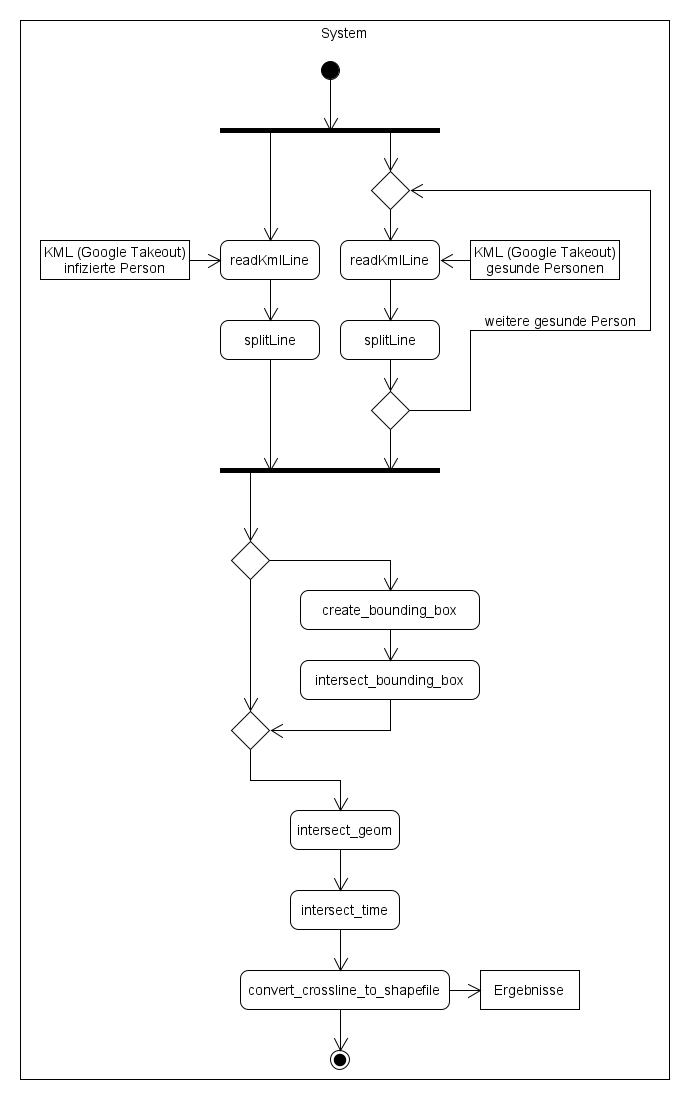
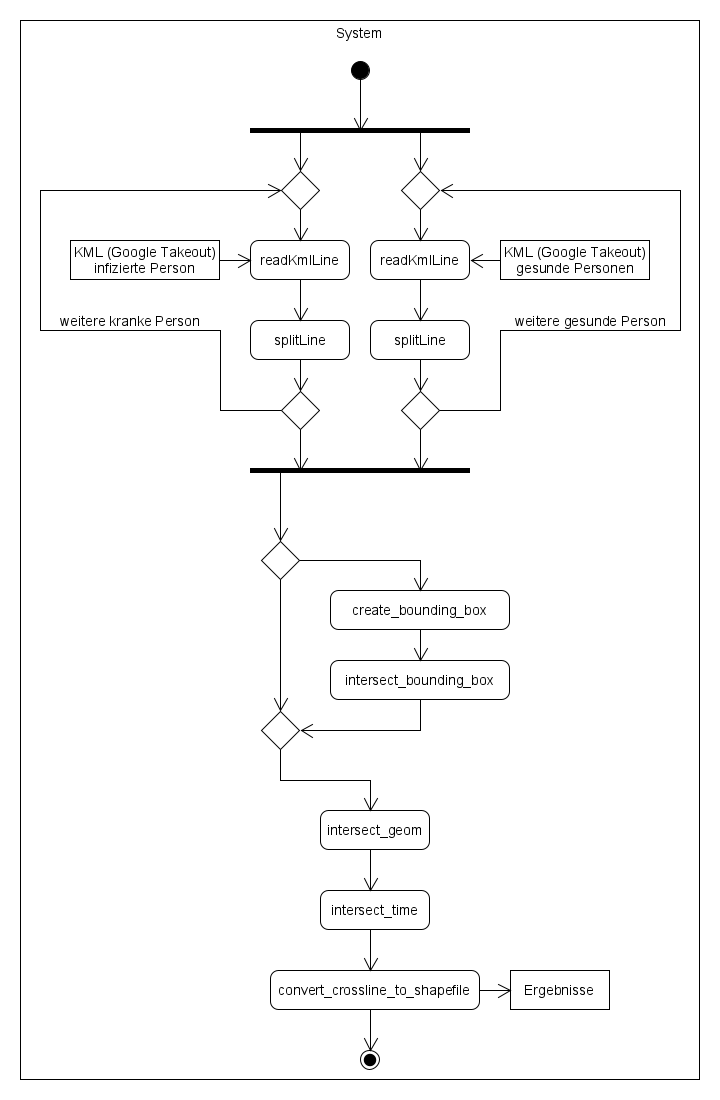
Edit Code and implement Multi User Check, Update Activity Diagramm

diff --git a/Python/Application.py b/Python/Application.py
@@ -19,14 +19,14 @@ if __name__ == "__main__":
 
     export_path = path.split("\\")
 
-    print(datetime.datetime.now().strftime('%Y-%m-%dT%H:%M:%SZ') + "  Lese erste Datei")
+    print(datetime.datetime.now().strftime('%Y-%m-%dT%H:%M:%SZ') + "  Lese erste Datei als kranke Person")
 
     datei1 = read_kml_line(path[:-len(export_path[-1])] + "Standortverlauf_Juli_2019\Standortverlauf_Christian_Juli2019.kml")
 
     print(datetime.datetime.now().strftime('%Y-%m-%dT%H:%M:%SZ') + "  Anzahl Punkte: " + str(len(datei1) / 2 - 1) + " Punkte")
     print(datetime.datetime.now().strftime('%Y-%m-%dT%H:%M:%SZ') + "  Splitte erste Datei")
 
-    lines1 = split_line(datei1, '2019-07-01T00:00:00Z', '2019-08-01T00:00:00Z')
+    lines1 = split_line(datei1, '2019-07-01T00:00:00Z', '2019-08-01T00:00:00Z', "krank_Christian")
 
     print(datetime.datetime.now().strftime('%Y-%m-%dT%H:%M:%SZ') + "  Anzahl Linien: " + str(len(lines1)) + " Linien")
     print(datetime.datetime.now().strftime('%Y-%m-%dT%H:%M:%SZ') + "  Exportiere erste gesplittete Datei")
@@ -36,14 +36,14 @@ if __name__ == "__main__":
     print(datetime.datetime.now().strftime('%Y-%m-%dT%H:%M:%SZ') + "  Erste Linie gesplittet")
 
 
-    print(datetime.datetime.now().strftime('%Y-%m-%dT%H:%M:%SZ') + "  Lese zweite Datei")
+    print(datetime.datetime.now().strftime('%Y-%m-%dT%H:%M:%SZ') + "  Lese zweite Datei als gesunde Person")
 
     datei2 = read_kml_line(path[:-len(export_path[-1])] + "Standortverlauf_Juli_2019\Standortverlauf_Tim_Juli2019.kml")
 
     print(datetime.datetime.now().strftime('%Y-%m-%dT%H:%M:%SZ') + "  Anzahl Punkte: " + str(len(datei2)/2 - 1) + " Punkte")
     print(datetime.datetime.now().strftime('%Y-%m-%dT%H:%M:%SZ') + "  Splitte zweite Datei")
 
-    lines2 = split_line(datei2, '2019-07-01T00:00:00Z', '2019-08-01T00:00:00Z')
+    lines2 = split_line(datei2, '2019-07-01T00:00:00Z', '2019-08-01T00:00:00Z', "gesund_Tim")
 
     print(datetime.datetime.now().strftime('%Y-%m-%dT%H:%M:%SZ') + "  Anzahl Linien: " + str(len(lines2)) + " Linien")
     print(datetime.datetime.now().strftime('%Y-%m-%dT%H:%M:%SZ') + "  Exportiere zweite gesplittete Datei")
@@ -53,19 +53,41 @@ if __name__ == "__main__":
     print(datetime.datetime.now().strftime('%Y-%m-%dT%H:%M:%SZ') + "  Zweite Linie gesplittet")
 
 
-    bbox1 = create_bounding_box(lines1)
-    bbox2 = create_bounding_box(lines2)
+    print(datetime.datetime.now().strftime('%Y-%m-%dT%H:%M:%SZ') + "  Lese dritte Datei als gesunde Person")
 
-    lines1 = intersect_bounding_box(lines1, bbox2)
-    lines2 = intersect_bounding_box(lines2, bbox1)
+    datei3 = read_kml_line(path[:-len(export_path[-1])] + "Standortverlauf_Juli_2019\Standortverlauf_Thomas_Juli2019.kml")
 
-    convert_linestring_to_shapefile(lines1, path[:-len(export_path[-1])] + r"Ergebnisse\Splitted_Lines",
+    print(datetime.datetime.now().strftime('%Y-%m-%dT%H:%M:%SZ') + "  Anzahl Punkte: " + str(
+        len(datei2) / 2 - 1) + " Punkte")
+    print(datetime.datetime.now().strftime('%Y-%m-%dT%H:%M:%SZ') + "  Splitte dritte Datei")
+
+    lines3 = split_line(datei2, '2019-07-01T00:00:00Z', '2019-08-01T00:00:00Z', "gesund_Thomas")
+
+    print(datetime.datetime.now().strftime('%Y-%m-%dT%H:%M:%SZ') + "  Anzahl Linien: " + str(len(lines2)) + " Linien")
+    print(datetime.datetime.now().strftime('%Y-%m-%dT%H:%M:%SZ') + "  Exportiere dritte gesplittete Datei")
+
+    # convert_linestring_to_shapefile(lines2, path[:-len(export_path[-1])] + r"Ergebnisse\Splitted_Lines", "Splitted_Lines_Christian_Juli2019_ogr")
+
+    print(datetime.datetime.now().strftime('%Y-%m-%dT%H:%M:%SZ') + "  Dritte Linie gesplittet")
+
+    infectedLines = lines1
+    healthyLines = lines2 + lines3
+
+
+    bboxInfected = create_bounding_box(infectedLines)
+    bboxHealthy = create_bounding_box(healthyLines)
+
+    infectedLines = intersect_bounding_box(infectedLines, bboxHealthy)
+    healthyLines = intersect_bounding_box(healthyLines, bboxInfected)
+
+
+    convert_linestring_to_shapefile(infectedLines, path[:-len(export_path[-1])] + r"Ergebnisse\Splitted_Lines",
                                     "Splitted_Lines_Christian_Juli2019_ogr")
-    convert_linestring_to_shapefile(lines2, path[:-len(export_path[-1])] + r"Ergebnisse\Splitted_Lines",
+    convert_linestring_to_shapefile(healthyLines, path[:-len(export_path[-1])] + r"Ergebnisse\Splitted_Lines",
                                     "Splitted_Lines_Tim_Juli2019_ogr")
 
 
-    result_geom = intersect_geom(lines1, lines2, distance=10)
+    result_geom = intersect_geom(infectedLines, healthyLines, distance=10)
     print(datetime.datetime.now().strftime('%Y-%m-%dT%H:%M:%SZ') + "  Geometrische Intersection")
     result_time = intersect_time(result_geom, delta=datetime.timedelta(minutes=15))
     print(datetime.datetime.now().strftime('%Y-%m-%dT%H:%M:%SZ') + "  Zeitliche Intersection")

diff --git a/Python/Utilities.py b/Python/Utilities.py
@@ -24,7 +24,7 @@ def read_kml_line(path):
     else:
         raise Exception('no track-tag found in KML')
 
-def split_line(input_line, startdate_iso, enddate_iso):
+def split_line(input_line, startdate_iso, enddate_iso, personal_id):
     '''
     Splits the long line into line sections in a defined timeframe adding the time as attribute
 
@@ -62,7 +62,7 @@ def split_line(input_line, startdate_iso, enddate_iso):
                 velocity = distance/time_delta
                 if velocity < 50: # [m/s]
                     # fill output list
-                    list_Linestrings.append(Linestring(old_point, point))
+                    list_Linestrings.append(Linestring(old_point, point, personal_id))
                 #else:
                     # k = k+1
                     #print(f"{k}. Ausreißer")
@@ -232,13 +232,17 @@ def convert_linestring_to_shapefile(list_linestring, path, filename):
     endtime = ogr.FieldDefn("endtime", ogr.OFTString)
     endtime.SetWidth(32)
     layer.CreateField(endtime)
+    pers_id = ogr.FieldDefn("pers_id", ogr.OFTString)
+    pers_id.SetWidth(32)
+    layer.CreateField(pers_id)
 
     for linestring in list_linestring:
         feature = ogr.Feature(layer.GetLayerDefn())
 
-        # set the attributes using the values from the delimited text file
+        # set the attributes
         feature.SetField("starttime", linestring.startpoint.timestamp.strftime('%Y-%m-%dT%H:%M:%SZ'))
         feature.SetField("endtime", linestring.endpoint.timestamp.strftime('%Y-%m-%dT%H:%M:%SZ'))
+        feature.SetField("pers_id", str(linestring.personal_id))
 
         # create geometry from linestring object
         line_ogr = ogr.Geometry(ogr.wkbLineString)
@@ -334,6 +338,13 @@ def convert_crossline_to_shapefile(lines, path, filename):
     endtime.SetWidth(32)
     layer.CreateField(endtime)
 
+    infected_id = ogr.FieldDefn("infected", ogr.OFTString)
+    infected_id.SetWidth(32)
+    layer.CreateField(infected_id)
+    healthy_id = ogr.FieldDefn("healthy", ogr.OFTString)
+    healthy_id.SetWidth(32)
+    layer.CreateField(healthy_id)
+
     for cross_line in lines:
         feature = ogr.Feature(layer.GetLayerDefn())
 
@@ -342,6 +353,9 @@ def convert_crossline_to_shapefile(lines, path, filename):
         feature.SetField("line1_end", cross_line.line1.endpoint.timestamp.strftime('%Y-%m-%dT%H:%M:%SZ'))
         feature.SetField("line2_sta", cross_line.line2.startpoint.timestamp.strftime('%Y-%m-%dT%H:%M:%SZ'))
         feature.SetField("line2_end", cross_line.line2.endpoint.timestamp.strftime('%Y-%m-%dT%H:%M:%SZ'))
+
+        feature.SetField("infected", str(cross_line.line1.personal_id))
+        feature.SetField("healthy", str(cross_line.line2.personal_id))
 
         # set the feature geometry using the polygon
         feature.SetGeometry(cross_line.geometry)

diff --git a/Python/Geometries.py b/Python/Geometries.py
@@ -12,7 +12,8 @@ class Point:
 
 
 class Linestring:
-    def __init__(self, startpoint, endpoint):
+    def __init__(self, startpoint, endpoint, personal_id=None):
+        self.personal_id = personal_id
         self.startpoint = startpoint
         self.endpoint = endpoint
 
